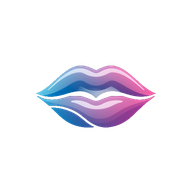
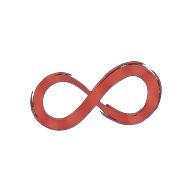
Add files via upload

Changed region(s): [[0.1562, 0.3125, 0.8438, 0.6875]]

diff --git a/index.html b/index.html
@@ -30,14 +30,14 @@
     <script src="https://www.gstatic.com/firebasejs/9.22.0/firebase-messaging-compat.js"></script>
     <script src="https://download.agora.io/sdk/release/AgoraRTC_N-4.18.0.js"></script>
     <link rel="stylesheet" href="https://cdn.jsdelivr.net/npm/@tabler/icons-webfont@latest/tabler-icons.min.css">
-    <link rel="manifest" href="manifest.json?v=2">
+    <link rel="manifest" href="manifest.json?v=3">
     <meta name="theme-color" content="#0b0b0c">
     <meta name="mobile-web-app-capable" content="yes">
     <meta name="apple-mobile-web-app-capable" content="yes">
     <meta name="apple-mobile-web-app-status-bar-style" content="black-translucent">
     <meta name="apple-mobile-web-app-title" content="B-Talk">
-    <link rel="apple-touch-icon" href="icon-192.png?v=2">
-    <link rel="icon" type="image/png" href="icon-192.png?v=2">
+    <link rel="apple-touch-icon" href="icon-192.png?v=3">
+    <link rel="icon" type="image/png" href="icon-192.png?v=3">
     <link rel="preconnect" href="https://fonts.googleapis.com">
     <link rel="preconnect" href="https://fonts.gstatic.com" crossorigin>
     <link href="https://fonts.googleapis.com/css2?family=Inter:wght@400;500;600;700;800;900&display=swap" rel="stylesheet">
@@ -157,6 +157,9 @@
             color: #fff;
         }
         html[data-cute-mode="cute"] .intro-wordmark { color: #2b1f24; }
+        .app-logo-cute { display: none !important; }
+        html[data-cute-mode="cute"] .app-logo-dark { display: none !important; }
+        html[data-cute-mode="cute"] .app-logo-cute { display: block !important; }
         .intro-how-btn {
             width: auto; padding: 16px 28px; background: rgba(255,255,255,0.06);
             border: 1px solid rgba(255,255,255,0.12); color: rgba(255,255,255,0.7);
@@ -852,9 +855,6 @@ select { background: #0d0e12; color: rgba(255,255,255,0.5); border: 1px solid rg
         html[data-cute-mode="cute"] .room-live-badge,
         html[data-cute-mode="cute"] .room-live-dot { color: #ff6f9c; background: #ff6f9c; }
         html[data-cute-mode="cute"] .room-live-badge { background: none; }
-        html[data-cute-mode="cute"] .room-header-controls .room-leave-btn {
-            background: #fff !important; border-color: rgba(0,0,0,0.08) !important; color: rgba(43,31,36,0.6) !important;
-        }
         html[data-cute-mode="cute"] #room-part-list::before { border-color: rgba(255,111,156,0.3); }
         html[data-cute-mode="cute"] .room-seat-avatar {
             background: #fff; border-color: rgba(255,111,156,0.35); box-shadow: 0 8px 20px rgba(255,111,156,0.1);
@@ -1124,7 +1124,6 @@ select { background: #0d0e12; color: rgba(255,255,255,0.5); border: 1px solid rg
             align-items: center;
             gap: 12px;
         }
-        .room-header-topic-block { text-align: center; }
         .room-header-label {
             font-size: 10px;
             text-transform: uppercase;
@@ -1132,14 +1131,21 @@ select { background: #0d0e12; color: rgba(255,255,255,0.5); border: 1px solid rg
             color: rgba(255,255,255,0.4);
         }
         .room-topic-display {
-            font-size: 20px;
+            font-size: 15px;
             font-weight: 700;
             color: var(--accent-color);
             text-shadow: 0 0 24px rgba(var(--accent-rgb),0.5), 0 1px 8px rgba(0,0,0,0.5);
             text-align: center;
-            letter-spacing: 0.5px;
-            max-width: 340px;
+            letter-spacing: 0.3px;
             line-height: 1.3;
+        }
+        .room-ring-topic {
+            position: absolute; top: 50%; left: 50%; transform: translate(-50%, -50%);
+            display: flex; flex-direction: column; align-items: center; gap: 4px;
+            width: 150px;
+            text-align: center;
+            pointer-events: none;
+            z-index: 0;
         }
         .room-header-controls {
             display: flex;
@@ -1158,12 +1164,6 @@ select { background: #0d0e12; color: rgba(255,255,255,0.5); border: 1px solid rg
             animation: pulseDot 1.4s ease-in-out infinite;
         }
         @keyframes pulseDot { 0%,100% { opacity:1; transform:scale(1); } 50% { opacity:.35; transform:scale(.75); } }
-        .room-header-controls .room-leave-btn {
-            width: auto; flex: none; margin: 0; padding: 7px 14px; border-radius: 20px; font-size: 12px;
-        }
-        .room-header-controls .room-pp-switch-btn {
-            width: auto; max-width: none; margin: 0; padding: 7px 12px; border-radius: 20px; font-size: 14px; line-height: 1;
-        }
         .room-body {
             width: 100%;
             max-width: 420px;
@@ -1240,7 +1240,7 @@ select { background: #0d0e12; color: rgba(255,255,255,0.5); border: 1px solid rg
         }
 
         /* ── 원형 4자리 배치 (room-participants-section = #room-part-list의 래퍼, 핑퐁 모드 전환 시 JS가 이 클래스를 통째로 숨김) ── */
-        .room-participants-section { display: flex; align-items: center; justify-content: center; }
+        .room-participants-section { display: flex; align-items: center; justify-content: center; position: relative; }
         #room-part-list {
             position: relative;
             width: 300px; height: 300px;
@@ -1310,7 +1310,32 @@ select { background: #0d0e12; color: rgba(255,255,255,0.5); border: 1px solid rg
         .room-ctrl-btn.muted { background: rgba(255,255,255,0.15); color: rgba(255,255,255,0.35); }
         .room-ctrl-btn.room-ctrl-leave { background: var(--danger-color); border: none; color: #fff; }
         .room-ctrl-btn.room-ctrl-leave:hover { color: #fff; opacity: 0.9; }
-        #talk-tips-btn { display: none; }
+
+        /* ── 씬 우측 상단의 작은 대화 팁(전구) 버튼: 꺼진 전구 → 탭하면 켜지는 애니메이션 ── */
+        .room-ring-tip-btn {
+            display: none;
+            position: absolute; top: 4px; right: 4px; z-index: 2;
+            width: 26px; height: 26px; border-radius: 50%;
+            background: rgba(255,255,255,0.05); border: 1px solid rgba(255,255,255,0.12);
+            color: rgba(255,255,255,0.4);
+            align-items: center; justify-content: center;
+            font-size: 12px; line-height: 1; cursor: pointer; padding: 0; margin: 0;
+            filter: grayscale(1); opacity: 0.55;
+            transition: filter 0.35s ease, opacity 0.35s ease, transform 0.2s ease, background 0.2s ease, border-color 0.2s ease;
+        }
+        .room-ring-tip-btn:hover { transform: scale(1.08); }
+        .room-ring-tip-btn.lit {
+            filter: none; opacity: 1;
+            background: rgba(255,196,0,0.12); border-color: rgba(255,196,0,0.4);
+            box-shadow: 0 0 12px rgba(255,196,0,0.5);
+            animation: tipBulbOn 0.5s ease;
+        }
+        @keyframes tipBulbOn {
+            0% { transform: scale(0.8); }
+            45% { transform: scale(1.35); }
+            70% { transform: scale(0.92); }
+            100% { transform: scale(1); }
+        }
 
         /* ── Talk Tips: 데스크톱 사이드바 / 모바일 모달 ── */
         #room-side-panel {
@@ -1466,31 +1491,6 @@ select { background: #0d0e12; color: rgba(255,255,255,0.5); border: 1px solid rg
             60%  { opacity: 0.9; transform: translateY(-220px) scale(1.3) rotate(12deg); }
             100% { opacity: 0; transform: translateY(-380px) scale(0.7) rotate(-8deg); }
         }
-        .room-leave-btn {
-            flex: 1;
-            padding: 13px;
-            border-radius: 20px;
-            background: rgba(255,255,255,0.03);
-            border: 1px solid rgba(255,255,255,0.12);
-            color: rgba(255,255,255,0.6);
-            font-size: 13px;
-            font-weight: 600;
-            cursor: pointer;
-            transition: all 0.2s;
-            margin: 0;
-        }
-        .room-leave-btn:hover { border-color: var(--accent-color); color: var(--accent-color); background: rgba(var(--accent-rgb),0.05); }
-
-        /* ── 핑퐁 전환 버튼 (통화 중) ── */
-        .room-pp-switch-btn {
-            width: 100%; max-width: 420px; margin: 0 0 8px; padding: 11px;
-            border-radius: 20px; background: rgba(var(--accent-rgb),0.06);
-            border: 1px solid rgba(var(--accent-rgb),0.3); color: var(--accent-color);
-            font-size: 12.5px; font-weight: 700; cursor: pointer; transition: all 0.2s;
-        }
-        .room-pp-switch-btn:hover { background: rgba(var(--accent-rgb),0.12); }
-        .room-pp-switch-btn:disabled { opacity: 0.4; cursor: default; }
-
         /* ── Discover 화면 (시안 1a 충실 재현: 레드 액센트 + 다크 카드) ── */
         #discover-screen {
             --dr: var(--accent-color); --dr-glow: rgba(var(--accent-rgb),.35); --dsurf: #141416; --dbord: rgba(255,255,255,.08);
@@ -1652,7 +1652,8 @@ select { background: #0d0e12; color: rgba(255,255,255,0.5); border: 1px solid rg
 
             .room-body { padding: 16px 14px; }
             .room-header-v2 { padding: 16px 16px 14px; }
-            .room-topic-display { font-size: 18px; }
+            .room-topic-display { font-size: 13px; }
+            .room-ring-topic { width: 130px; }
 
             .modal-content { padding: 20px 16px; }
         }
@@ -1855,7 +1856,8 @@ select { background: #0d0e12; color: rgba(255,255,255,0.5); border: 1px solid rg
     <!-- 인트로 화면 -->
     <div id="intro-screen" style="display:none;">
         <div class="intro-glow" aria-hidden="true"></div>
-        <img src="logo-boundless-talk.png" alt="" style="width:150px; height:150px; object-fit:contain; position:relative; filter:drop-shadow(0 0 40px rgba(var(--accent-rgb),0.25));">
+        <img class="app-logo-dark" src="logo-boundless-talk.png" alt="" style="width:150px; height:150px; object-fit:contain; position:relative; filter:drop-shadow(0 0 40px rgba(var(--accent-rgb),0.25));">
+        <img class="app-logo-cute" src="logo-boundless-talk-cute.png" alt="" style="width:150px; height:150px; object-fit:contain; position:relative; filter:drop-shadow(0 0 40px rgba(var(--accent-rgb),0.25));">
         <div class="intro-wordmark" id="intro-wordmark">boundless talk</div>
         <p class="intro-desc" id="intro-desc" style="margin-top:12px; margin-bottom:14px;">Some conversations change you.<br>Discover diverse perspectives.</p>
         <div style="margin-bottom: 8px;">
@@ -1955,7 +1957,8 @@ select { background: #0d0e12; color: rgba(255,255,255,0.5); border: 1px solid rg
 
     <div id="main-container">
         <div class="title-block">
-            <img src="logo-boundless-talk.png" alt="Boundless Talk" style="width:72px; height:72px; display:block; margin:0 auto -22px; border-radius:16px;">
+            <img class="app-logo-dark" src="logo-boundless-talk.png" alt="Boundless Talk" style="width:72px; height:72px; display:block; margin:0 auto -22px; border-radius:16px; object-fit:contain;">
+            <img class="app-logo-cute" src="logo-boundless-talk-cute.png" alt="Boundless Talk" style="width:72px; height:72px; display:block; margin:0 auto -22px; border-radius:16px; object-fit:contain;">
             <h2 id="app-title" style="font-size:22px; letter-spacing:4px;">BOUNDLESS TALK</h2>
             <p id="app-subtitle" class="sub-title">talk about anything with anyone!</p>
         </div>
@@ -2005,7 +2008,8 @@ select { background: #0d0e12; color: rgba(255,255,255,0.5); border: 1px solid rg
         <div id="discover-screen">
             <div class="disco-navbar">
                 <div class="disco-navbar-brand">
-                    <img class="disco-navbar-logo" src="logo-boundless-talk.png" alt="Boundless Talk">
+                    <img class="disco-navbar-logo app-logo-dark" src="logo-boundless-talk.png" alt="Boundless Talk">
+                    <img class="disco-navbar-logo app-logo-cute" src="logo-boundless-talk-cute.png" alt="Boundless Talk">
                     <span class="disco-navbar-word">boundless talk</span>
                 </div>
                 <div class="disco-navbar-links">
@@ -2327,20 +2331,19 @@ select { background: #0d0e12; color: rgba(255,255,255,0.5); border: 1px solid rg
     <div id="room-screen">
       <div class="room-main-col">
         <div class="room-header-v2">
-            <div class="room-header-topic-block">
-                <div class="room-header-label" id="room-header-label">대화 주제</div>
-                <div class="room-topic-display" id="room-topic-display">—</div>
-            </div>
             <div class="room-header-controls">
                 <div class="room-live-badge"><span class="room-live-dot"></span>LIVE</div>
                 <div class="room-part-count" id="room-part-count">나 포함 1명</div>
-                <button class="room-pp-switch-btn" id="room-pp-switch-btn" style="display:none;" onclick="switchToPingpong()">⇄</button>
-                <button class="room-leave-btn" id="room-leave-btn" title="나가기">나가기</button>
             </div>
         </div>
         <div class="room-body">
             <div class="room-ring-wrap">
                 <div class="room-participants-section">
+                    <button class="room-ring-tip-btn" id="talk-tips-btn" onclick="toggleTalkTipsPanel()" title="Talk Tips">💡</button>
+                    <div class="room-ring-topic">
+                        <div class="room-header-label" id="room-header-label">대화 주제</div>
+                        <div class="room-topic-display" id="room-topic-display">—</div>
+                    </div>
                     <div id="room-part-list"></div>
                 </div>
             </div>
@@ -2398,9 +2401,9 @@ select { background: #0d0e12; color: rgba(255,255,255,0.5); border: 1px solid rg
         </div>
 
         <div class="room-bottom-controls">
-            <button class="room-ctrl-btn" id="talk-tips-btn" onclick="toggleTalkTipsPanel()" title="Talk Tips">💡</button>
             <button class="room-ctrl-btn" id="room-mic-btn" title="Mute">🎙</button>
             <button class="room-ctrl-btn room-ctrl-leave" id="room-leave-btn-circle" title="나가기">✕</button>
+            <button class="room-ctrl-btn" id="room-pp-switch-btn" style="display:none;" onclick="switchToPingpong()" title="핑퐁 모드로 전환">🏓</button>
             <button class="room-ctrl-btn" id="room-report-btn" title="신고">⚑</button>
         </div>
       </div>
@@ -4082,10 +4085,10 @@ document.getElementById('part-title-label').innerText = lang.partLabel;
         // room screen 라벨 업데이트
         document.getElementById('room-header-label').innerText = lang.roomHeaderLabel;
         document.getElementById('icebreaker-label').innerText = lang.icebrkLabel;
-        document.getElementById('room-leave-btn').innerText = lang.roomLeaveBtn;
         document.getElementById('room-report-btn').title = lang.roomReportBtn;
         document.getElementById('room-leave-btn-circle').title = lang.roomLeaveBtn;
         document.getElementById('talk-tips-btn').title = lang.talkTipsBtn;
+        document.getElementById('room-pp-switch-btn').title = currentLang === 'ko' ? '핑퐁 모드로 전환' : 'Switch to Ping Pong';
         // 대화 스타일 모달 언어 업데이트
         const ssmTitle = document.getElementById('speech-style-modal-title');
         const ssmDesc = document.getElementById('speech-style-modal-desc');
@@ -5004,7 +5007,10 @@ database.ref('activeTopics/' + safeAgoraChannelId).on('value', snap => {
                 if (ppSwitchBtn) ppSwitchBtn.style.display = 'none';
             } else if (!finalTopic.startsWith('🔒_')) {
                 const ppSwitchBtn = document.getElementById('room-pp-switch-btn');
-                if (ppSwitchBtn) { ppSwitchBtn.style.display = 'block'; ppSwitchBtn.disabled = false; ppSwitchBtn.textContent = currentLang === 'ko' ? '이 방을 핑퐁 모드로 전환하기' : 'Switch this room to Ping Pong'; }
+                if (ppSwitchBtn) {
+                    ppSwitchBtn.style.display = 'flex'; ppSwitchBtn.disabled = false;
+                    ppSwitchBtn.title = currentLang === 'ko' ? '이 방을 핑퐁 모드로 전환하기' : 'Switch this room to Ping Pong';
+                }
             }
 
             // 핑퐁 토글 숨기기
@@ -5291,10 +5297,10 @@ database.ref('activeTopics/' + safeAgoraChannelId).on('value', snap => {
         document.getElementById('icebreaker-label').textContent = lang.icebrkLabel;
         document.getElementById('convo-tip-label').textContent = lang.convoTipLabel;
         document.getElementById('convo-tip-hint').textContent = lang.convoTipHint;
-        document.getElementById('room-leave-btn').textContent = lang.roomLeaveBtn;
         document.getElementById('room-report-btn').title = lang.roomReportBtn;
         document.getElementById('room-leave-btn-circle').title = lang.roomLeaveBtn;
         document.getElementById('talk-tips-btn').title = lang.talkTipsBtn;
+        document.getElementById('room-pp-switch-btn').title = currentLang === 'ko' ? '핑퐁 모드로 전환' : 'Switch to Ping Pong';
 
         updateRoomParticipants();
         document.getElementById('room-screen').classList.add('active');
@@ -5596,7 +5602,7 @@ database.ref('activeTopics/' + safeAgoraChannelId).on('value', snap => {
         const savedTopic = currentChannelName || document.getElementById('topic-input').value;
         if (!savedTopic || savedTopic.startsWith('🔒_')) return;
         const btn = document.getElementById('room-pp-switch-btn');
-        if (btn) { btn.disabled = true; btn.textContent = currentLang === 'ko' ? '전환 중...' : 'Switching...'; }
+        if (btn) { btn.disabled = true; btn.title = currentLang === 'ko' ? '전환 중...' : 'Switching...'; }
 
         ppAutoSwitchInProgress = true;
         document.getElementById('leave-btn').click();
@@ -5621,7 +5627,7 @@ database.ref('activeTopics/' + safeAgoraChannelId).on('value', snap => {
                 speechStyleConfirmed = true;
                 document.getElementById('join-btn').click();
                 ppAutoSwitchInProgress = false;
-                if (btn) { btn.disabled = false; btn.textContent = currentLang === 'ko' ? '이 방을 핑퐁 모드로 전환하기' : 'Switch this room to Ping Pong'; }
+                if (btn) { btn.disabled = false; btn.title = currentLang === 'ko' ? '이 방을 핑퐁 모드로 전환하기' : 'Switch this room to Ping Pong'; }
             }
         }, 150);
     }
@@ -6064,9 +6070,6 @@ database.ref('activeTopics/' + safeAgoraChannelId).on('value', snap => {
         countEl.textContent = currentLang === 'ko' ? `나 포함 ${total}명` : `${total} including you`;
     }
 
-    document.getElementById('room-leave-btn').onclick = function() {
-        document.getElementById('leave-btn').click();
-    };
     document.getElementById('room-report-btn').onclick = function() {
         document.getElementById('report-btn').click();
     };
@@ -6213,10 +6216,14 @@ database.ref('activeTopics/' + safeAgoraChannelId).on('value', snap => {
 
     // Talk Tips 패널 (데스크톱: 상시 사이드바 / 모바일: 버튼 눌러 여는 모달)
     function toggleTalkTipsPanel() {
-        document.getElementById('room-side-panel').classList.toggle('open');
+        const open = document.getElementById('room-side-panel').classList.toggle('open');
+        const tipBtn = document.getElementById('talk-tips-btn');
+        if (tipBtn) tipBtn.classList.toggle('lit', open);
     }
     function closeTalkTipsPanel() {
         document.getElementById('room-side-panel').classList.remove('open');
+        const tipBtn = document.getElementById('talk-tips-btn');
+        if (tipBtn) tipBtn.classList.remove('lit');
     }
 
     function closeReportModal() {